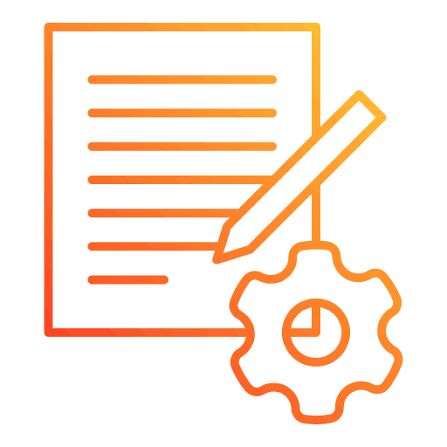
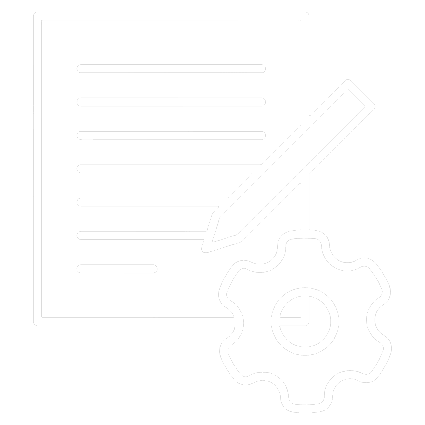
feat(PR.055): converter icones das abas Orcamento e Descritivos para traco 100% branco para contraste com a aba laranja

diff --git a/src/app/page.tsx b/src/app/page.tsx
@@ -1663,9 +1663,9 @@ export default function OrcaBaseDashboard() {
               onClick={() => setMainModule("ORCAMENTO")}
             >
               <img
-                src="/icon-orcamento.png"
+                src="/icon-orcamento.png?v=white"
                 alt="Orçamento"
-                className="w-5 h-5 object-contain drop-shadow-[0_1px_2px_rgba(0,0,0,0.35)]"
+                className="w-5 h-5 object-contain drop-shadow-[0_1px_2px_rgba(0,0,0,0.4)]"
               />
               <span>Orçamento</span>
             </button>
@@ -1675,9 +1675,9 @@ export default function OrcaBaseDashboard() {
               onClick={() => setMainModule("DESCRITIVOS")}
             >
               <img
-                src="/icon-descritivo.png"
+                src="/icon-descritivo.png?v=white"
                 alt="Descritivos"
-                className="w-5 h-5 object-contain drop-shadow-[0_1px_2px_rgba(0,0,0,0.35)]"
+                className="w-5 h-5 object-contain drop-shadow-[0_1px_2px_rgba(0,0,0,0.4)]"
               />
               <span>Descritivos</span>
             </button>
@@ -1686,7 +1686,7 @@ export default function OrcaBaseDashboard() {
               aria-pressed={mainModule === "CONFIGURACOES"}
               onClick={() => setMainModule("CONFIGURACOES")}
             >
-              <Settings className="w-5 h-5 text-[#ffb457]" />
+              <Settings className="w-5 h-5 text-white drop-shadow-[0_1px_2px_rgba(0,0,0,0.4)]" />
               <span>Configurações</span>
             </button>
           </nav>
@@ -2987,9 +2987,9 @@ export default function OrcaBaseDashboard() {
                   }`}
                 >
                   <img
-                    src="/icon-orcamento.png"
+                    src="/icon-orcamento.png?v=white"
                     alt="Orçamento"
-                    className="w-4 h-4 object-contain drop-shadow-[0_1px_2px_rgba(0,0,0,0.35)]"
+                    className="w-4 h-4 object-contain drop-shadow-[0_1px_2px_rgba(0,0,0,0.4)]"
                   />
                   <span>Demandas de Orçamento</span>
                   <span className="px-2 py-0.5 rounded text-xs font-mono bg-black/30 text-white font-bold">
@@ -3007,9 +3007,9 @@ export default function OrcaBaseDashboard() {
                   }`}
                 >
                   <img
-                    src="/icon-descritivo.png"
+                    src="/icon-descritivo.png?v=white"
                     alt="Descritivos"
-                    className="w-4 h-4 object-contain drop-shadow-[0_1px_2px_rgba(0,0,0,0.35)]"
+                    className="w-4 h-4 object-contain drop-shadow-[0_1px_2px_rgba(0,0,0,0.4)]"
                   />
                   <span>Demandas de Descritivos</span>
                   <span className={`px-2 py-0.5 rounded text-xs font-mono font-bold ${

diff --git a/PONTOS_DE_RESTAURACAO.md b/PONTOS_DE_RESTAURACAO.md
@@ -11,6 +11,24 @@ Este documento registra cronologicamente todos os pontos de restauração do pro
 
 ---
 
+### [PR.055]
+- **Data/Hora:** 21/11/2026 20:24 (Horário Local)
+- **Tag Git:** `PR.055` (Ponto de Recuperação de Segurança Anterior: **`PR.046`**)
+- **Status:** Ativo / Em Produção 24/7
+- **Links Oficiais:**
+  - Produção Oficial (Vercel): https://orcabase-lab-gpr.vercel.app (e alias https://orcaeng-lab-ai-matching.vercel.app)
+  - Repositório GitHub: https://github.com/Wisterly/orcabase-lab-gpr
+  - Pasta Oficial no Disco: C:\Users\Lenovo\Documents\antigravity\LAB - GPR\OrçaBase.lab - GPR
+
+#### 🎯 Implementações Estruturais do PR.055 (Ícones das Abas `Orçamento` e `Descritivos` com Traço 100% Branco Puro para Contraste com a Aba Laranja):
+1. **Conversão para Branco Puro (`#FFFFFF`) e Fundo Transparente (`public/icon-orcamento.png`, `public/icon-descritivo.png` e `src/app/page.tsx`):**
+   - Convertidos todos os traços de `public/icon-orcamento.png` e `public/icon-descritivo.png` para **branco puro (`255, 255, 255`)** com fundo e áreas internas 100% transparentes e proporção quadrada normalizada, garantindo contraste máximo sobre a aba ativa laranja e sobre as abas inativas.
+   - Padronizado também o ícone da aba `Configurações` em branco (`text-white`) e adicionado sufixo `?v=white` nas imagens para atualização imediata de cache no navegador.
+2. **🔒 Cadeado Criptográfico SHA-256 Mantido 100% Intacto:**
+   - `src/lib/excelEngine.ts` e `src/lib/compatEngineLock.ts` 100% intocados.
+
+---
+
 ### [PR.054]
 - **Data/Hora:** 21/11/2026 20:08 (Horário Local)
 - **Tag Git:** `PR.054` (Ponto de Recuperação de Segurança Anterior: **`PR.046`**)

diff --git a/CONTEXTO_CONTINUIDADE.md b/CONTEXTO_CONTINUIDADE.md
@@ -1,6 +1,6 @@
 # 🔄 Contexto de Continuidade Imediata — OrçaBase.lab - GPR
 
-## 📍 Ponto Atual de Entrega — Ciclo PR.054 (Ponto de Recuperação de Segurança Anterior: `PR.046`)
+## 📍 Ponto Atual de Entrega — Ciclo PR.055 (Ponto de Recuperação de Segurança Anterior: `PR.046`)
 - **`PR.046` (`de9c171`):** Ponto de Recuperação de Segurança criado **antes** da execução do `super_master_prompt_e_guia_de_implementa_o.md`.
 - **`PR.053`:** Blindagem dupla da Continuidade Acumulativa Automática no Assistente Técnico de Memoriais Descritivos.
-- **`PR.054`:** Atualização dos ícones oficiais das abas **`Orçamento`** (`public/icon-orcamento.png`) e **`Descritivos`** (`public/icon-descritivo.png`) com as imagens fornecidas pelo usuário.
+- **`PR.055`:** Ícones das abas **`Orçamento`** (`public/icon-orcamento.png`) e **`Descritivos`** (`public/icon-descritivo.png`) convertidos para traço **100% branco puro (`#FFFFFF`)** com fundo transparente para máximo contraste sobre a aba laranja.
